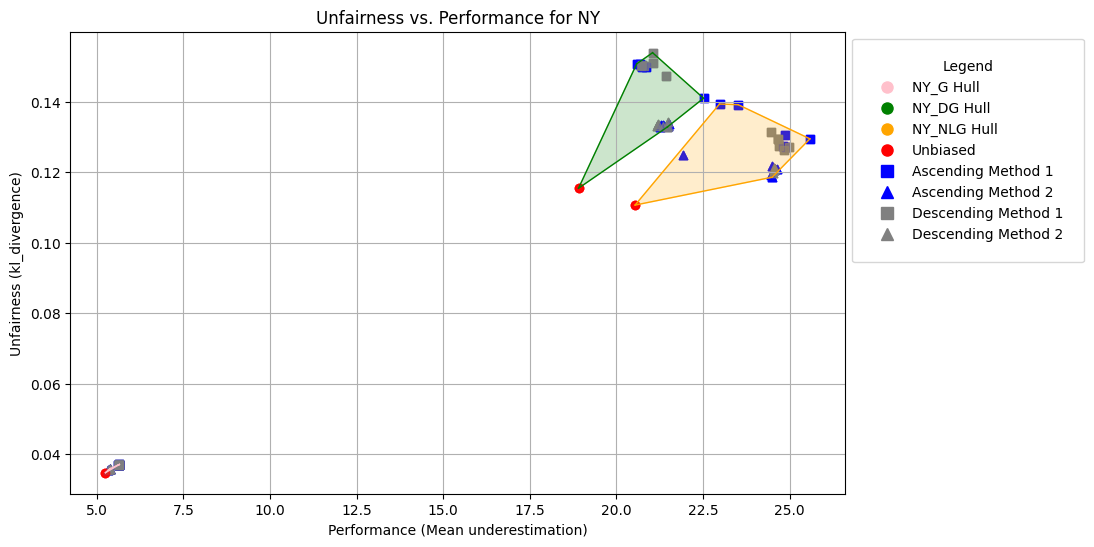
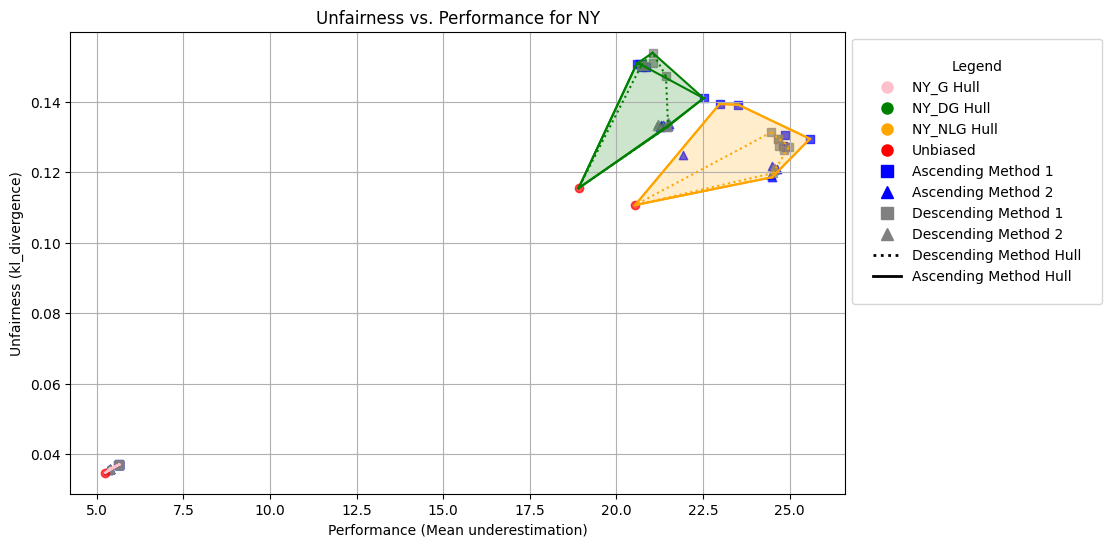
update the eval_plot.py
update the evaluation plot script and results

diff --git a/evaluation/eval_plot.py b/evaluation/eval_plot.py
@@ -5,23 +5,16 @@ import numpy as np
 from scipy.spatial import ConvexHull
 import re
 
-
-
-
-
-
 def plot_unfairness_vs_performance(location_name, performance_type, metric_type):
     results_G = pd.read_csv(f"../evaluation/{location_name}_G/{performance_type}/{metric_type}/{location_name}_G_log.csv")
     results_DG = pd.read_csv(f"../evaluation/{location_name}_DG/{performance_type}/{metric_type}/{location_name}_DG_log.csv")
     results_NLG = pd.read_csv(f"../evaluation/{location_name}_NLG/{performance_type}/{metric_type}/{location_name}_NLG_log.csv")
 
     data = {
-        f"{location_name}_G": (results_G['performance'], results_G['unfairness']),
-        f"{location_name}_DG": (results_DG['performance'], results_DG['unfairness']),
-        f"{location_name}_NLG": (results_NLG['performance'], results_NLG['unfairness'])
+        f"{location_name}_G": (results_G['performance'], results_G['unfairness'], results_G['file_name']),
+        f"{location_name}_DG": (results_DG['performance'], results_DG['unfairness'], results_DG['file_name']),
+        f"{location_name}_NLG": (results_NLG['performance'], results_NLG['unfairness'], results_NLG['file_name'])
     }
-
-    # display(data)
 
     hull_colors = {f"{location_name}_G": "pink", f"{location_name}_DG": "green", f"{location_name}_NLG": "orange"}
     point_colors = {"unbiased": "red", "ascending": "blue", "descending": "grey"}
@@ -29,8 +22,9 @@ def plot_unfairness_vs_performance(location_name, performance_type, metric_type)
 
     plt.figure(figsize=(10, 6))
 
+
+
     def get_label(filename):
-        # Gravity log files
         if "gravity" in filename:
             if "1_ascending" in filename:
                 return "ascending", "1"
@@ -42,18 +36,12 @@ def plot_unfairness_vs_performance(location_name, performance_type, metric_type)
                 return "descending", "2"
             else:
                 return "unbiased", "0"
-
-        # DG/NLG log files
         elif "od2flow" in filename:
-            # Extract the index from the filename using a regular expression
             numbers = re.findall(r'\d+', filename)
-            # Convert numbers to integers (optional)
             numbers = [int(num) for num in numbers]
-
             index = None
             if len(numbers) == 2:
                 index = numbers[1]
-
             if index == 0:
                 return "unbiased", "0"
             elif 1 <= index <= 6:
@@ -68,60 +56,86 @@ def plot_unfairness_vs_performance(location_name, performance_type, metric_type)
                 return "unknown", "unknown"
 
 
-    # Plot points for each dataset
-    for label, (performance, unfairness) in data.items():
-        # Loop through the dataset and apply get_label based on each filename
-        for i, row in results_G.iterrows():
-            point_order, point_method = get_label(row['file_name'])
-            plt.scatter(row['performance'], row['unfairness'], color=point_colors[point_order], marker=point_shapes[point_method], label=point_order if i == 0 else "", alpha=0.7)
-
-        for i, row in results_DG.iterrows():
-            point_order, point_method = get_label(row['file_name'])  # Pass the filename to get_label
-            plt.scatter(row['performance'], row['unfairness'], color=point_colors[point_order], marker=point_shapes[point_method], label=point_order if i == 0 else "", alpha=0.7)
-
-        for i, row in results_NLG.iterrows():
-            point_order, point_method = get_label(row['file_name'])
-            plt.scatter(row['performance'], row['unfairness'], color=point_colors[point_order], marker=point_shapes[point_method], label=point_order if i == 0 else "", alpha=0.7)
 
 
-        # Convex hull for each dataset
-        points = np.column_stack((performance, unfairness))
-        hull = ConvexHull(points)
-        for simplex in hull.simplices:
-            plt.plot(points[simplex, 0], points[simplex, 1], color=hull_colors[label],
-                     linewidth=1)  # Hull edges in dataset color
-        plt.fill(points[hull.vertices, 0], points[hull.vertices, 1], color=hull_colors[label], alpha=0.2)  # Hull fill
 
-    hull_metrics = {}  # To store hull measurements for each dataset
-    for label, (performance, unfairness) in data.items():
-        points = np.column_stack((performance, unfairness))
-        hull = ConvexHull(points)
+    hull_metrics = {}
+    # Calculate height, width, and area of the hull
+    def calculate_hull_metrics(points, label_suffix, store_metrics=True):
+        if len(points) > 2:
+            points = np.array(points)
+            hull = ConvexHull(points)
 
-        # Calculate height, width, and area of the hull
-        min_x, max_x = points[hull.vertices, 0].min(), points[hull.vertices, 0].max()
-        min_y, max_y = points[hull.vertices, 1].min(), points[hull.vertices, 1].max()
+            min_x, max_x = points[hull.vertices, 0].min(), points[hull.vertices, 0].max()
+            min_y, max_y = points[hull.vertices, 1].min(), points[hull.vertices, 1].max()
 
-        width = max_x - min_x
-        height = max_y - min_y
-        area = hull.volume  # ConvexHull's `volume` property gives the 2D area for 2D points
+            width = max_x - min_x
+            height = max_y - min_y
+            area = hull.volume
 
-        hull_metrics[label] = {
-            "height": height,
-            "width": width,
-            "area": area
-        }
-    # Display hull metrics for each model
+            if store_metrics:
+                hull_metrics[f"{label}_{label_suffix}"] = {
+                    "height": height,
+                    "width": width,
+                    "area": area
+                }
+
+            return hull, points, {"height": height, "width": width, "area": area}
+        return None, None, None
+
+    for label, (performance, unfairness, file_names) in data.items():
+        grey_and_unbiased_points = []
+        blue_and_unbiased_points = []
+
+        for i, row in zip(range(len(file_names)), file_names):
+            point_order, point_method = get_label(row)
+            plt.scatter(performance[i], unfairness[i], color=point_colors[point_order], marker=point_shapes[point_method], alpha=0.7)
+            if point_order in {"descending", "unbiased"}:
+                grey_and_unbiased_points.append((performance[i], unfairness[i]))
+            if point_order in {"ascending", "unbiased"}:
+                blue_and_unbiased_points.append((performance[i], unfairness[i]))
+
+        grey_metrics = None
+        blue_metrics = None
+
+        # Grey and unbiased points
+        hull, points, grey_metrics = calculate_hull_metrics(grey_and_unbiased_points, "Descending and Unbiased")
+
+        if hull:
+            for simplex in hull.simplices:
+                plt.plot(points[simplex, 0], points[simplex, 1], linestyle="dotted", color=hull_colors[label])
+
+        # Blue and unbiased points
+        hull, points, blue_metrics = calculate_hull_metrics(blue_and_unbiased_points, "Ascending and Unbiased")
+
+        if hull:
+            for simplex in hull.simplices:
+                plt.plot(points[simplex, 0], points[simplex, 1], linestyle="solid", color=hull_colors[label])
+
+        # Calculate the "all" metrics as the mean of grey and blue metrics
+        if grey_metrics and blue_metrics:
+            mean_metrics = {
+                "height": (grey_metrics["height"] + blue_metrics["height"]) / 2,
+                "width": (grey_metrics["width"] + blue_metrics["width"]) / 2,
+                "area": (grey_metrics["area"] + blue_metrics["area"]) / 2
+            }
+            hull_metrics[f"{label}_all"] = mean_metrics
+
+        # Overall hull for all points
+        all_points = np.column_stack((performance, unfairness))
+        hull, points, _ = calculate_hull_metrics(all_points, "all", store_metrics=False)
+        if hull:
+            for simplex in hull.simplices:
+                plt.plot(points[simplex, 0], points[simplex, 1], color=hull_colors[label])
+            plt.fill(points[hull.vertices, 0], points[hull.vertices, 1], color=hull_colors[label], alpha=0.2)
+
+    # Display hull metrics for each model and shape
     for label, metrics in hull_metrics.items():
         print(f"Metrics for {label}:")
         print(f"  Height: {metrics['height']}")
         print(f"  Width: {metrics['width']}")
         print(f"  Area: {metrics['area']}\n")
 
-    plt.xlabel(f'Performance (Mean {performance_type})')
-    plt.ylabel(f'Unfairness ({metric_type})')
-    plt.title(f'Unfairness vs. Performance for {location_name}')
-    plt.ylim(plt.ylim())
-    plt.xlim(plt.xlim())
 
 
 
@@ -141,14 +155,18 @@ def plot_unfairness_vs_performance(location_name, performance_type, metric_type)
         mlines.Line2D([], [], color='grey', marker='^', linestyle='None', markersize=8, label="Descending Method 2")
     ]
 
-    # Combine all legend handles
-    legend_handles = hull_handles + point_handles
+    # Define legend handles for line styles
+    line_handles = [
+        mlines.Line2D([], [], color='black', linestyle='dotted', linewidth=2, label="Descending Method Hull"),
+        mlines.Line2D([], [], color='black', linestyle='solid', linewidth=2, label="Ascending Method Hull")
+    ]
 
-    # Add the legend to the plot
+    legend_handles = hull_handles + point_handles + line_handles
     plt.legend(handles=legend_handles, title="Legend", loc='upper left', bbox_to_anchor=(1, 1), borderpad=1.5, handlelength=2)
 
-
-
+    plt.xlabel(f'Performance (Mean {performance_type})')
+    plt.ylabel(f'Unfairness ({metric_type})')
+    plt.title(f'Unfairness vs. Performance for {location_name}')
     plt.grid(True)
 
     plt.savefig(f"../evaluation/{location_name}_{performance_type}_{metric_type}_plot.png", bbox_inches='tight')

diff --git a/experiment/7_evaluation_plot.py b/experiment/7_evaluation_plot.py
@@ -15,6 +15,6 @@ from eval_plot import *
 
 
 location_name = 'NY'
-performance_type = 'underestimation'
+performance_type = 'CPC'
 metric_type = 'kl_divergence'
 plot_unfairness_vs_performance(location_name, performance_type, metric_type)
